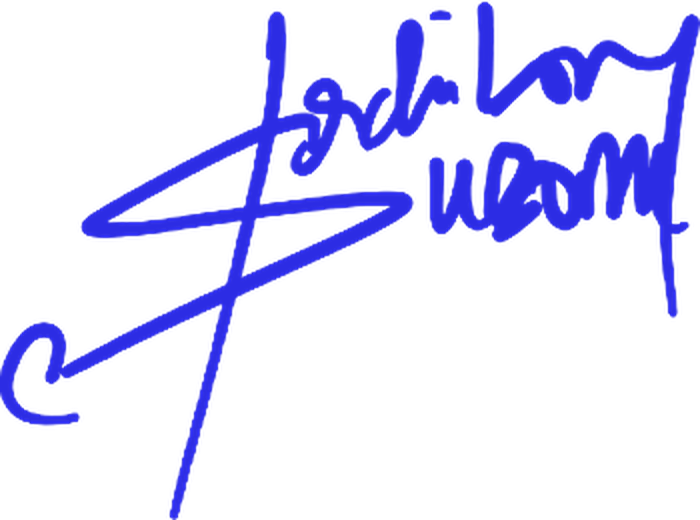
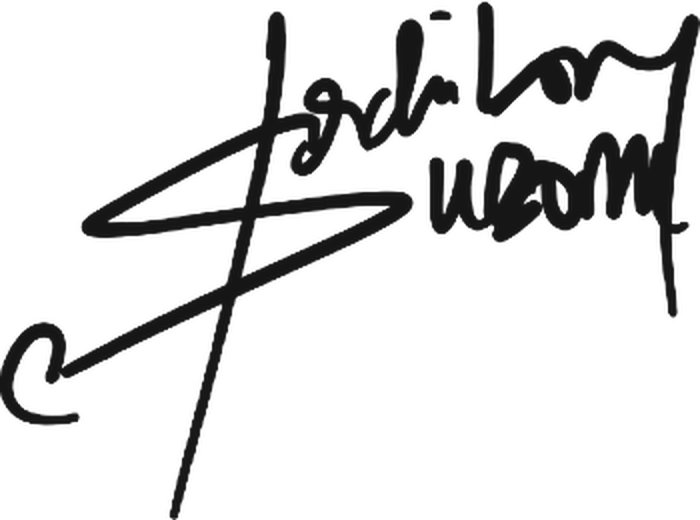
Carbon signature on About; no animation on the podcast guest cards
Claude-Session: https://claude.ai/code/session_01CQdpHZtbBC6FNGBudvRMip

Changed region(s): [[0.0, 0.0, 1.0, 1.0]]

diff --git a/src/styles/site.css b/src/styles/site.css
@@ -795,6 +795,11 @@ a.ct-proj-media:hover img{transform:scale(1.03)}
   /* Colorteam in Numbers: label sits under the number */
   .number-top-wrap{flex-direction:column;align-items:flex-start;gap:6px}
 }
+/* v1.1: Podcast "Be Our Next Guest" cards: no hover/tap animation on any screen size */
+#podcast-steps .growth-card-wrap,#podcast-steps .growth-card-wrap:hover{transform:none;box-shadow:none}
+#podcast-steps .growth-card-wrapper:hover .growth-card-bg{height:0}
+#podcast-steps .growth-card-wrapper:hover .growth-card-title,#podcast-steps .growth-card-wrapper:hover .growth-card-details{color:inherit}
+#podcast-steps .growth-card-wrapper:hover .growth-card-icon{transform:none}
 
 
 /* multi-page build: pages are no longer toggled with [hidden] */
